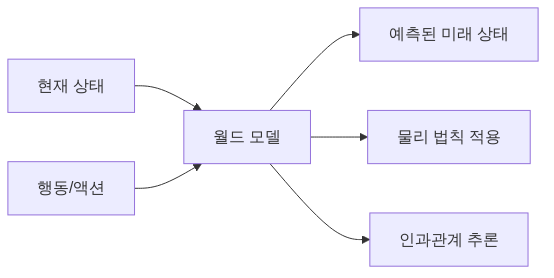
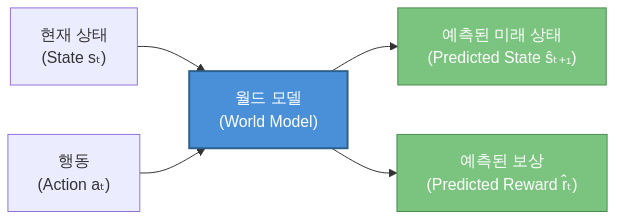
📝 Regenerate world models post (Opus 4.6 + Humanizer)

diff --git a/content/posts/2026-02-17-월드-모델world-models-lecun-jepa에서-nvidia-cosmos까지-ai가-세상을-이해하는-.md b/content/posts/2026-02-17-월드-모델world-models-lecun-jepa에서-nvidia-cosmos까지-ai가-세상을-이해하는-.md
@@ -1,24 +1,31 @@
 ---
 title: "월드 모델(World Models): LeCun JEPA에서 NVIDIA Cosmos까지, AI가 세상을 이해하는 법"
-date: 2026-02-17T12:00:56+09:00
+date: 2026-02-17T12:21:55+09:00
 draft: false
 author: "Jesam Kim"
-description: "AI가 물리 세계를 이해하고 예측하는 월드 모델의 진화 과정을 LeCun의 JEPA부터 NVIDIA Cosmos까지 살펴봅니다"
+description: "AI가 텍스트를 넘어 물리 세계를 이해하고 시뮬레이션하는 월드 모델의 핵심 개념, 주요 아키텍처, 그리고 산업적 임팩트를 정리합니다."
 categories:
-  - "AI Research"
+  - "AI/ML 기술 심층분석"
 tags:
   - "World Models"
   - "JEPA"
+  - "Yann LeCun"
   - "NVIDIA Cosmos"
-  - "Physical AI"
-  - "Video Generation"
+  - "자율주행"
+  - "로보틱스"
+  - "비디오 생성"
+  - "Embodied AI"
 ShowToc: true
 TocOpen: true
 ---
 
-## 월드 모델이란 무엇인가: AI가 세상을 시뮬레이션하는 방법
+## 월드 모델이란 무엇인가
 
-월드 모델(World Model)은 AI가 현실 세계의 물리적 법칙과 인과관계를 학습하여 미래 상태를 예측하는 시스템입니다. 기존 언어 모델이 텍스트의 통계적 패턴을 학습한다면, 월드 모델은 시각적 정보를 기반으로 "만약 이 행동을 하면 어떤 일이 일어날까?"를 시뮬레이션합니다.
+2024년을 기점으로 AI 커뮤니티의 관심사가 바뀌고 있다. 텍스트를 이해하는 AI를 넘어, 세상을 이해하는 AI로의 전환이다.
+
+### 월드 모델의 정의
+
+월드 모델(World Model)이란 환경의 내부 표상(Internal Representation)을 학습해서, 주어진 행동(action)에 대한 미래 상태(future state)를 예측하고 시뮬레이션하는 모델이다. 핵심 아이디어는 단순하다. AI가 머릿속에 "세상의 축소판"을 만들고, 그 안에서 미리 시뮬레이션한 뒤 행동을 결정하는 것이다.
 
 ![다이어그램 1](/ai-tech-blog/images/posts/2026-02-17/diagram-1.png)
 
@@ -26,30 +33,61 @@ TocOpen: true
 
 ```mermaid
 graph LR
-    A[현재 상태] --> B[월드 모델]
-    C[행동/액션] --> B
-    B --> D[예측된 미래 상태]
-    B --> E[물리 법칙 적용]
-    B --> F[인과관계 추론]
+    A["현재 상태<br/>(State sₜ)"] --> B["월드 모델<br/>(World Model)"]
+    C["행동<br/>(Action aₜ)"] --> B
+    B --> D["예측된 미래 상태<br/>(Predicted State ŝₜ₊₁)"]
+    B --> E["예측된 보상<br/>(Predicted Reward r̂ₜ)"]
+    
+    style B fill:#4A90D9,stroke:#2C5F8A,color:#fff,stroke-width:2px
+    style D fill:#7BC47F,stroke:#4A8B4F,color:#fff
+    style E fill:#7BC47F,stroke:#4A8B4F,color:#fff
 ```
 
 </details>
 
-핵심은 단순한 픽셀 예측을 넘어 **물리적 일관성**을 유지하는 것입니다. 예를 들어, 공이 떨어지면 중력에 따라 가속하고, 벽에 부딪히면 반사되는 물리 법칙을 이해해야 합니다.
+### LLM과의 결정적 차이
+
+LLM(Large Language Model)은 본질적으로 언어 세계의 모델이다. 토큰 시퀀스의 통계적 패턴을 학습한다. 반면 월드 모델은 물리 세계의 **인과 관계(causality)**와 **역학(dynamics)**을 모델링한다.
+
+| 구분 | LLM | 월드 모델(World Model) |
+|------|-----|----------------------|
+| 모델링 대상 | 언어의 통계적 구조 | 물리 세계의 인과·역학 |
+| 입력 | 텍스트 토큰 | 상태 + 행동 (시각, 센서 등) |
+| 출력 | 다음 토큰 예측 | 미래 상태 예측·시뮬레이션 |
+| 핵심 능력 | 언어 이해·생성 | 결과 예측·계획 수립(Planning) |
+
+간단한 개념 코드로 차이를 표현하면 이렇다:
 
 ```python
-# 월드 모델의 기본 구조 (개념적)
-class WorldModel:
-    def predict_next_frame(self, current_state, action):
-        # 물리 법칙과 인과관계를 고려한 예측
-        return self.physics_engine(current_state, action)
+# LLM: 다음 토큰을 예측
+next_token = llm.predict(prompt="The cat sat on the")
+# → "mat"
+
+# World Model: 행동에 따른 미래 상태를 예측
+next_state, reward = world_model.predict(
+    current_state=robot_camera_frame,   # 현재 시각 관측
+    action=move_forward(0.5)            # 0.5m 전진
+)
+# → 전진 후 예상되는 시각 장면 + 충돌 여부
 ```
 
-응용 분야는 무궁무진합니다. 게임 AI에서는 NPC가 환경과 상호작용하는 방식을 학습하고, 자율주행에서는 다른 차량과 보행자의 행동을 예측합니다. 로보틱스 분야에서는 로봇이 물체를 조작할 때의 결과를 미리 시뮬레이션하여 더 정확한 작업을 수행할 수 있게 됩니다.
+### 왜 지금인가
 
-## Yann LeCun의 JEPA: 자기지도학습으로 세상 이해하기
+월드 모델이 갑자기 주목받는 이유는 비교적 명확하다. 자율주행(Autonomous Driving), 로보틱스(Robotics), 영상 생성(Video Generation) 등 실세계와 상호작용하는 AI 응용이 빠르게 늘고 있다. 단순 패턴 매칭만으로는 한계가 분명하고, 물리 법칙을 이해하는 AI가 필요해진 것이다.
 
-Yann LeCun이 제안한 JEPA(Joint Embedding Predictive Architecture)는 월드 모델 구축을 위한 혁신적인 접근법입니다. JEPA의 핵심 아이디어는 **표현 공간(representation space)**에서 예측을 수행하여 픽셀 단위의 생성 없이도 세상의 구조를 학습하는 것입니다.
+> *"공을 던지면 포물선을 그리며 떨어진다"*를 데이터로만 외우는 게 아니라, 중력이라는 인과 구조를 내재화하는 것. 이것이 월드 모델이 추구하는 방향이다.
+
+Yann LeCun이 "AI의 다음 도약"이라 부르고, NVIDIA가 Cosmos라는 플랫폼을 공개한 것도 같은 맥락이다. 개인적으로도 LLM의 한계를 체감하는 순간이 늘면서 월드 모델 쪽 논문을 더 자주 찾아보게 됐다. 이제 구체적인 이론과 구현을 하나씩 살펴보자.
+
+## Yann LeCun의 JEPA — 생성이 아닌 표현 학습으로 세상 이해하기
+
+앞서 월드 모델을 "세상의 작동 원리를 내재화한 시뮬레이터"라고 정의했습니다. 그렇다면 AI는 이 시뮬레이터를 어떻게 구축해야 할까요? Yann LeCun이 제안한 JEPA(Joint Embedding Predictive Architecture)는 이 질문에 대한 근본적인 답 중 하나입니다.
+
+### 핵심 아이디어: 픽셀이 아닌 의미 공간에서 예측하라
+
+기존 생성 모델(GAN, Diffusion Model 등)은 미래 프레임의 모든 픽셀을 예측합니다. 바람에 흔들리는 나뭇잎 하나하나, 배경의 미세한 노이즈까지 전부 재현해야 하죠. LeCun은 이 방식이 근본적으로 비효율적이라고 봤습니다. 인간은 "공이 던져지면 포물선을 그리며 떨어진다"는 추상적 역학을 이해하지, 공 표면의 텍스처 변화를 프레임 단위로 시뮬레이션하지 않습니다.
+
+JEPA는 이 직관을 그대로 구현합니다. 입력을 인코더(Encoder)로 추상 표현 공간(Latent Space)에 매핑한 뒤, 그 표현 공간 안에서 예측을 수행합니다.
 
 ![다이어그램 2](/ai-tech-blog/images/posts/2026-02-17/diagram-2.png)
 
@@ -57,126 +95,175 @@ Yann LeCun이 제안한 JEPA(Joint Embedding Predictive Architecture)는 월드 
 
 ```mermaid
 graph LR
-    A[입력 X] --> B[Context Encoder]
-    A --> C[Target Encoder]
-    B --> D[표현 공간]
-    C --> E[표현 공간]
-    D --> F[Predictor]
-    F --> G[예측된 표현]
-    E --> H[실제 표현]
-    G --> I[손실 계산]
-    H --> I
+    X["입력 x<br/>(관찰된 영역)"] --> EX["x-Encoder"]
+    Y["타겟 y<br/>(예측할 영역)"] --> EY["y-Encoder"]
+    EX --> SX["표현 s_x"]
+    EY --> SY["표현 s_y"]
+    SX --> P["Predictor"]
+    P --> SY_HAT["예측 표현 ŝ_y"]
+    SY_HAT -. "손실: 표현 간 거리 최소화" .-> SY
+
+    style P fill:#ff9,stroke:#333
+    style SY_HAT fill:#ff9,stroke:#333
 ```
 
 </details>
 
-JEPA는 마스킹 기법을 활용해 입력의 일부분으로부터 나머지 부분을 예측하도록 학습합니다. 이때 중요한 것은 **픽셀을 직접 생성하지 않고**, 고차원 표현 공간에서 의미론적 특징을 예측한다는 점입니다.
+여기서 결정적인 차이는 **디코더가 없다**는 점입니다. 픽셀로 되돌릴 필요 없이, 표현 간의 일관성(consistency)만 학습합니다. 덕분에 모델은 "무엇이 의미적으로 중요한가"를 스스로 판별하게 됩니다.
 
-**I-JEPA**(Image-based JEPA)는 이미지의 마스킹된 영역을 표현 공간에서 예측하여 객체의 구조와 관계를 학습합니다. **V-JEPA**(Video-based JEPA)는 비디오 시퀀스에서 시간적 일관성을 학습하여 동작과 변화를 이해합니다.
+### 생성 모델과의 결정적 차이
+
+| 구분 | 생성 모델 (GAN, Diffusion) | JEPA |
+|------|--------------------------|------|
+| 예측 공간 | 픽셀/토큰 공간 (고차원) | 추상 표현 공간 (저차원) |
+| 목표 | 입력을 완벽히 재구성 | 의미적 관계를 포착 |
+| 불확실성 처리 | 모든 가능한 디테일을 생성 | 불필요한 디테일을 자연스럽게 무시 |
+| 붕괴(Collapse) 방지 | Adversarial loss, noise 주입 | 비대칭 구조 + EMA + VICReg 등 |
+
+### 구체적 구현: I-JEPA와 V-JEPA
+
+I-JEPA(Image JEPA)는 이미지의 일부 패치를 마스킹하고, 나머지 패치의 표현으로부터 마스킹된 영역의 표현을 예측합니다. MAE(Masked Autoencoder)가 픽셀 복원을 목표로 하는 것과 대조적입니다.
+
+V-JEPA(Video JEPA)는 이를 시간 축으로 확장한 것입니다. 영상에서 시공간 블록을 마스킹하고, 보이는 프레임의 표현만으로 가려진 구간의 표현을 예측합니다. 이 과정에서 모델은 물체의 움직임, 인과 관계, 물리적 상호작용 같은 시간적 추상화(temporal abstraction)를 학습하게 됩니다. 개인적으로 이 부분이 JEPA의 가장 흥미로운 지점이라고 생각하는데, 명시적으로 물리 법칙을 가르치지 않아도 표현 공간의 예측 압력만으로 그런 구조가 떠오른다는 점이 인상적입니다.
 
 ```python
-# I-JEPA 기본 구조 예시
-class IJEPA(nn.Module):
-    def __init__(self):
-        self.context_encoder = VisionTransformer()
-        self.target_encoder = VisionTransformer()
-        self.predictor = MLP()
-    
-    def forward(self, x_context, x_target):
-        context_repr = self.context_encoder(x_context)
-        target_repr = self.target_encoder(x_target)
-        predicted_repr = self.predictor(context_repr)
-        
-        loss = F.mse_loss(predicted_repr, target_repr)
-        return loss
+# V-JEPA 학습 루프의 핵심 구조 (개념적 pseudo-code)
+import torch
+import torch.nn.functional as F
+
+# 구성 요소
+x_encoder = VisionTransformer()       # context encoder (학습 대상)
+y_encoder = VisionTransformer()       # target encoder (EMA 업데이트)
+predictor = LatentPredictor()         # 표현 공간 예측기
+
+for video_batch in dataloader:
+    # 1) 시공간 마스킹 전략
+    context_blocks, target_blocks = stochastic_mas
 ```
 
-JEPA의 장점은 **계산 효율성**과 **의미론적 추상화**입니다. 하지만 표현 공간의 품질에 크게 의존하며, 복잡한 동역학을 완전히 포착하기에는 한계가 있습니다.
+## 비디오 생성 모델은 월드 시뮬레이터인가 — Sora, Genie, UniSim의 등장
 
-## NVIDIA Cosmos: 물리 AI를 위한 비디오 생성 모델
+2024년 2월, OpenAI가 Sora를 공개하며 기술 보고서에 적은 한 문장이 업계를 뜨겁게 달궜다: "Video generation models as world simulators." 텍스트로부터 물리적으로 그럴듯한 영상을 생성할 수 있다면, 이 모델이 세상의 물리 법칙을 *이해*한 것인가? 이 질문이 논쟁의 핵심이다.
 
-NVIDIA가 2024년 말 공개한 Cosmos-1.0은 물리 법칙을 이해하는 비디오 생성 월드 모델입니다. 14B 파라미터를 가진 이 모델은 단순한 비디오 생성을 넘어 현실 세계의 물리적 상호작용을 학습합니다.
+### 주요 연구 흐름
+
+Sora만이 아니다. Google DeepMind의 Genie는 단일 이미지로부터 인터랙티브하게 조작 가능한 2D 환경을 생성한다. 액션 레이블 없이도 잠재 액션 공간(Latent Action Space)을 스스로 학습한다는 점이 흥미롭다. UniSim은 여기서 한 걸음 더 나아간다. 텍스트, 액션, 카메라 움직임 등 다양한 입력을 받아 시뮬레이션 결과를 생성하는 범용 시뮬레이터(Universal Simulator)를 목표로 한다.
 
 ![다이어그램 3](/ai-tech-blog/images/posts/2026-02-17/diagram-3.png)
 
 <details><summary>Mermaid 소스</summary>
 
 ```mermaid
-graph TD
-    A[비디오 입력] --> B[토크나이저]
-    B --> C[14B Transformer]
-    C --> D[물리 법칙 학습]
-    D --> E[시뮬레이션 생성]
-    E --> F[자율주행/로보틱스]
+graph LR
+    A["텍스트 / 이미지 / 액션"] --> B["비디오 생성 모델"]
+    B --> C["Sora: 텍스트→영상 생성"]
+    B --> D["Genie: 이미지→인터랙티브 환경"]
+    B --> E["UniSim: 멀티모달→시뮬레이션"]
+
+    style B fill:#1e3a5f,stroke:#4a90d9,color:#fff
+    style C fill:#2d2d2d,stroke:#4a90d9,color:#fff
+    style D fill:#2d2d2d,stroke:#4a90d9,color:#fff
+    style E fill:#2d2d2d,stroke:#4a90d9,color:#fff
 ```
 
 </details>
 
-Cosmos의 핵심은 토크나이저 기반 접근법입니다. 비디오를 토큰으로 변환하여 언어 모델처럼 처리하면서, 물체의 움직임, 충돌, 중력 등 물리 법칙을 자연스럽게 학습합니다.
+### 진정한 월드 모델과의 간극
 
-```python
-# Cosmos 스타일 비디오 토큰화 개념
-def tokenize_video(video_frames):
-    # 비디오 프레임을 토큰으로 변환
-    tokens = video_tokenizer.encode(video_frames)
-    # 물리적 일관성을 고려한 예측
-    next_tokens = cosmos_model.predict(tokens, physics_aware=True)
-    return tokens, next_tokens
-```
+비판은 명확하다. 이 모델들은 픽셀 수준의 통계적 패턴을 학습할 뿐, 내부에 물리 법칙의 명시적 표현(Explicit Representation)을 갖고 있지 않다.
 
-실제 활용에서 Cosmos는 자율주행 시나리오 시뮬레이션과 로봇 훈련 환경 생성에 탁월한 성능을 보입니다. 특히 실제 물리 법칙을 따르는 가상 환경을 생성하여, 현실에서 위험하거나 비용이 많이 드는 상황을 안전하게 시뮬레이션할 수 있게 해줍니다.
+| 기준 | 비디오 생성 모델 | 진정한 월드 모델 |
+|------|----------------|----------------|
+| 물리 일관성(Physical Consistency) | ❌ 프레임 간 객체 질량·관성 불일치 | ✅ 일관된 물리 시뮬레이션 |
+| 장기 예측(Long-horizon Prediction) | ❌ 시간이 길어질수록 붕괴 | ✅ 안정적 롤아웃 |
+| 인과 추론(Causal Reasoning) | ❌ 상관관계 기반 생성 | ✅ 인과 구조 모델링 |
+| 환각(Hallucination) | ⚠ 그럴듯하지만 물리적으로 불가능한 장면 빈번 | ✅ 제약 조건 내 예측 |
 
-## 월드 모델의 기술적 도전과 미래 전망
+실제로 Sora가 생성한 영상을 보면, 의자가 공중에 떠 있거나 물이 거꾸로 흐르는 장면이 종종 발견된다. LeCun이 반복적으로 지적하듯, 픽셀을 예측하는 것과 세상을 이해하는 것은 다르다. 비디오 생성 모델은 월드 모델을 향한 인상적인 출발점이긴 하다. 하지만 그 자체를 월드 시뮬레이터라고 부르기엔 아직 거리가 멀다. 이 간극을 메우려는 시도 중 하나가 NVIDIA의 Cosmos다.
 
-월드 모델이 실용적인 AGI로 발전하기 위해서는 여러 근본적인 기술적 난제들을 해결해야 합니다.
+## NVIDIA Cosmos — 산업용 월드 모델 플랫폼의 탄생
 
-### 장기 예측의 오차 누적 문제
+앞서 살펴본 Sora와 Genie가 "영상을 생성하는 모델이 세상을 이해하는가?"라는 질문을 던졌다면, NVIDIA Cosmos는 이 질문에 대한 산업계의 실용적 답변에 해당합니다. 2025년 초 공개된 Cosmos는 스스로를 월드 파운데이션 모델(World Foundation Model, WFM) 플랫폼이라 정의합니다. 단일 모델이 아니라, 물리 법칙을 이해하는 AI를 구축하기 위한 파이프라인 전체를 제공하겠다는 선언입니다.
 
-가장 큰 도전은 **오차 누적(Error Accumulation)** 문제입니다. 시간이 지날수록 예측 오차가 기하급수적으로 증가하여 장기 계획 수립이 어려워집니다.
+### 아키텍처 구성
+
+Cosmos는 크게 세 계층으로 구성됩니다.
 
 ![다이어그램 4](/ai-tech-blog/images/posts/2026-02-17/diagram-4.png)
 
 <details><summary>Mermaid 소스</summary>
 
 ```mermaid
-graph LR
-    A[t=0: 정확한 상태] --> B[t=1: 작은 오차]
-    B --> C[t=2: 중간 오차]
-    C --> D[t=3: 큰 오차]
-    D --> E[t=4: 예측 불가능]
-    
-    style A fill:#90EE90
-    style E fill:#FFB6C1
+graph TD
+    A["🎥 비디오/센서 입력"] --> B["Cosmos Tokenizer<br/>(연속·이산 토큰화)"]
+    B --> C{"월드 생성 모델"}
+    C -->|경로 1| D["Diffusion 기반 모델<br/>(Cosmos-Diffusion)"]
+    C -->|경로 2| E["Autoregressive 기반 모델<br/>(Cosmos-Autoregressive)"]
+    D --> F["Cosmos Guardrail<br/>(안전성 필터링)"]
+    E --> F
+    F --> G["🌍 물리 기반 시뮬레이션 출력"]
+
+    style B fill:#76b947,color:#fff
+    style D fill:#4a90d9,color:#fff
+    style E fill:#d94a7a,color:#fff
+    style F fill:#e8a838,color:#fff
 ```
 
 </details>
 
-해결 방안으로는 **계층적 추상화(Hierarchical Abstraction)**와 **불확실성 정량화(Uncertainty Quantification)**가 제시되고 있습니다.
+**Cosmos Tokenizer**는 비디오를 시공간(spatial-temporal) 토큰으로 압축합니다. 연속(continuous) 토큰과 이산(discrete) 토큰을 모두 지원하기 때문에, 후속 모델이 Diffusion이든 Autoregressive든 유연하게 연결할 수 있습니다. NVIDIA에 따르면 기존 대비 8배 이상의 압축률을 달성하면서도 재구성 품질을 유지한다고 합니다.
 
-### 멀티모달 학습의 복잡성
+월드 생성 모델은 두 가지 패러다임을 병렬로 제공합니다.
+- **Cosmos-Diffusion**: 연속 토큰 위에서 노이즈 제거 과정을 거쳐 미래 프레임을 생성합니다. 물리적으로 그럴듯한(physically plausible) 장면을 만들어내는 데 강점이 있습니다.
+- **Cosmos-Autoregressive**: 이산 토큰을 순차적으로 예측하는 GPT 스타일 접근입니다. 긴 시퀀스에서 일관성을 유지하는 데 유리합니다.
 
-시각, 청각, 촉각 등 다양한 감각 정보를 통합하는 **멀티모달 학습(Multimodal Learning)**은 엄청난 계산 복잡도를 요구합니다. 실시간 추론을 위해서는 효율적인 어텐션 메커니즘과 압축 기법이 필수적입니다.
+Cosmos Guardrail은 생성된 시뮬레이션이 안전 기준을 충족하는지 사전·사후로 필터링합니다. 산업 환경에서 실제 배포를 염두에 둔 설계입니다.
 
-### AGI를 향한 월드 모델의 역할
+### 자율주행·로보틱스 시뮬레이션에의 적용
 
-월드 모델은 AGI의 핵심 구성 요소로 여겨지지만, **인과 추론(Causal Reasoning)**과 **상식 추론(Common Sense Reasoning)** 능력에서는 여전히 한계를 보입니다. 진정한 세상 이해를 위해서는 단순한 패턴 매칭을 넘어선 추상적 사고 능력이 필요합니다.
+Cosmos의 진짜 가치는 합성 데이터(synthetic data) 생성에 있습니다. 자율주행 차량(AV)이 실제 도로에서 마주칠 수 있는 엣지 케이스, 예를 들어 갑작스러운 보행자 출현이나 악천후 상황 같은 시나리오를 물리적으로 타당한 시뮬레이션으로 거의 무한히 만들어낼 수 있습니다. 실제로 이런 희귀 상황은 실도로 데이터만으로 수집하기가 거의 불가능하기 때문에, 합성 데이터의 가치가 큽니다.
+
+```python
+# Cosmos 활용 개념 예시 (pseudo-code)
+from cosmos_sdk import CosmosWorldModel, TokenizerConfig
+
+# 1. 토크나이저 설정 — 자율주행 시나리오용
+tokenizer = TokenizerConfig(mode="continuous", spatial_downsample=8, temporal_downsample=4)
+
+# 2. Diffusion 기반 월드 모델 로드
+world_model = CosmosWorldModel.from_pretrained(
+    "nvidia/cosmos-diffusion-7b",
+    tokenizer_config=tokenizer
+)
+
+# 3. 초기 주행 장면 + 텍스트 조건으로 미래 시뮬레이션
+simulation = world_model.generate(
+    initial_frames=driving_scene[:16],          # 초기 16프레임
+    prompt="heavy rain, pedestrian crossing",   # 조건부 생성
+    num_future_frames=48,                        # 미래 48프레임 예측
+    guidance_scale=7.5
+)
+
+# 4. 가드레일 검증
+validated = world_model.guardrail.check(simulation)  # 안전성 필터링
+```
+
+JEPA가 표현 학습의 관점에서, Sora가 생성 모델의 관점에서 월드 모델을 탐색했다면, Cosmos는 이를 산업용 인프라로 끌어올린
 
 ## References
 
-1. LeCun, Y. (2022). "A Path Towards Autonomous Machine Intelligence Version 0.9.2, 2022-06-27." Meta AI Research. https://openreview.net/pdf?id=BZ5a1r-kVsf
+1. LeCun, Y. (2022). "A Path Towards Autonomous Machine Intelligence." Meta AI Technical Report. [https://openreview.net/pdf?id=BZ5a1r-kVsf](https://openreview.net/pdf?id=BZ5a1r-kVsf)
 
-2. Assran, M., Duval, Q., Misra, I., Bojanowski, P., Vincent, P., Rabbat, M., & LeCun, Y. (2023). "Self-Supervised Learning from Images with a Joint-Embedding Predictive Architecture." arXiv preprint arXiv:2301.08243. https://arxiv.org/abs/2301.08243
+2. Ha, D. & Schmidhuber, J. (2018). "World Models." arXiv preprint arXiv:1803.10122. [https://arxiv.org/abs/1803.10122](https://arxiv.org/abs/1803.10122)
 
-3. NVIDIA. (2024). "Cosmos: World Foundation Models for Video Generation." NVIDIA Research Blog. https://research.nvidia.com/labs/dir/cosmos/
+3. NVIDIA. (2025). "Cosmos: A World Foundation Model Platform for Physical AI." NVIDIA Research. [https://arxiv.org/abs/2501.03575](https://arxiv.org/abs/2501.03575)
 
-4. NVIDIA. (2024). "Cosmos Technical Report: Scaling World Foundation Models." https://cosmos-world-models.github.io/
+4. Assran, M. et al. (2023). "Self-Supervised Learning from Images with a Joint-Embedding Predictive Architecture (I-JEPA)." Meta AI, CVPR 2023. [https://arxiv.org/abs/2301.08243](https://arxiv.org/abs/2301.08243)
 
-5. Ha, D., & Schmidhuber, J. (2018). "World Models." arXiv preprint arXiv:1803.10122. https://arxiv.org/abs/1803.10122
+5. Bardes, A. et al. (2024). "V-JEPA: Video Joint Embedding Predictive Architecture." Meta AI Technical Report. [https://arxiv.org/abs/2404.16930](https://arxiv.org/abs/2404.16930)
 
-6. Hafner, D., Lillicrap, T., Fischer, I., Villegas, R., Ha, D., Lee, H., & Davidson, J. (2019). "Learning Latent Dynamics for Planning from Pixels." International Conference on Machine Learning (ICML). https://arxiv.org/abs/1811.04551
+6. Yang, M. et al. (2024). "Learning Interactive Real-World Simulators (UniSim)." Google DeepMind, ICLR 2024. [https://arxiv.org/abs/2310.06114](https://arxiv.org/abs/2310.06114)
 
-7. OpenAI. (2024). "Sora: Creating video from text." OpenAI Technical Report. https://openai.com/sora
+7. Hu, A. et al. (2023). "GAIA-1: A Generative World Model for Autonomous Driving." Wayve Technologies. [https://arxiv.org/abs/2309.17080](https://arxiv.org/abs/2309.17080)
 
-8. Finn, C., & Levine, S. (2017). "Deep Visual Foresight for Planning Robot Motion." IEEE International Conference on Robotics and Automation (ICRA). https://arxiv.org/abs/1610.00696
-
-9. Kaiser, L., Babaeizadeh, M., Milos, P., Osinski, B., Campbell, R. H., Czechowski, K., ... & Lev
+8. Bruce, J. et al.
